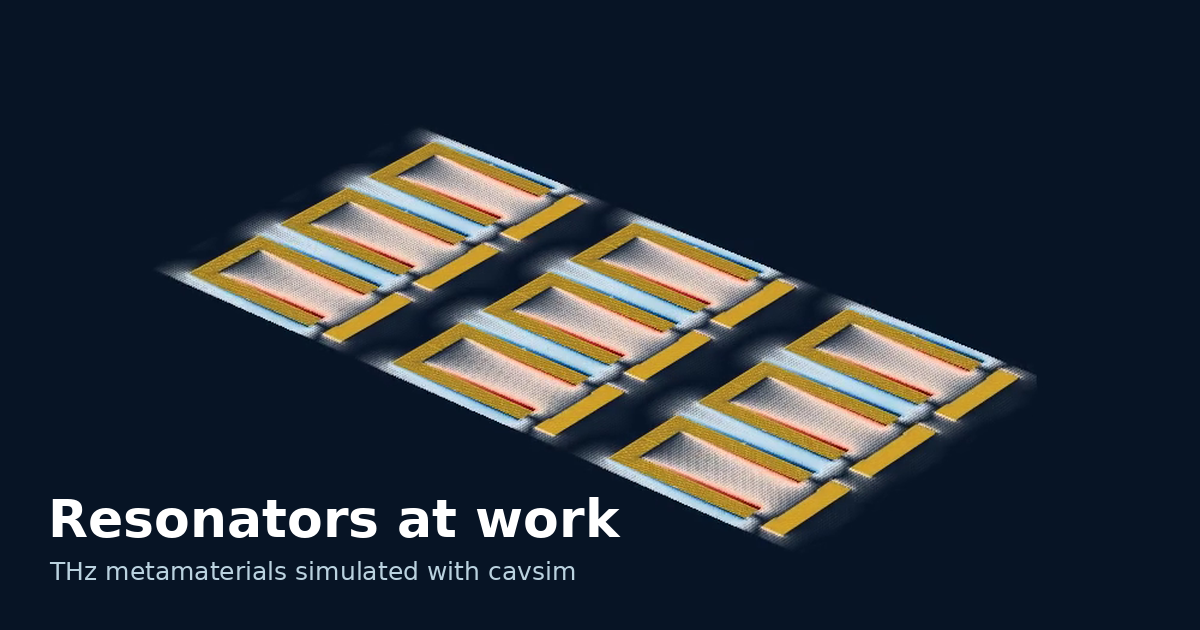
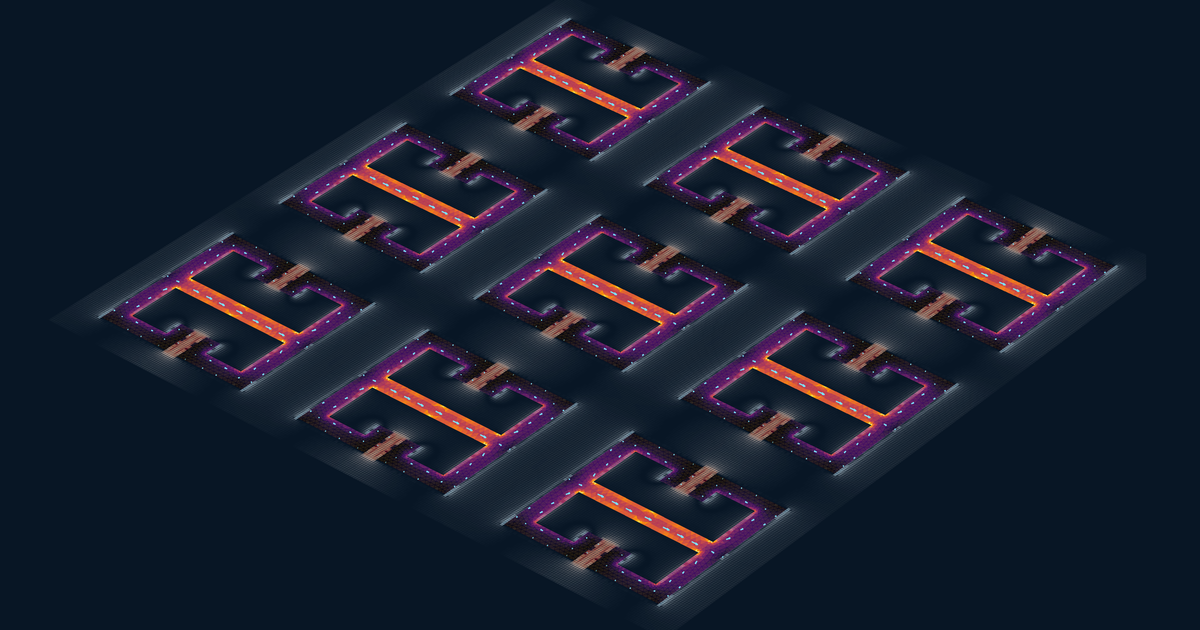
Use the text-free SRR array still as the link-preview image
Claude-Session: https://claude.ai/code/session_01AW5zNXaVauRsMQ6Jd48Vr4

diff --git a/index.html b/index.html
@@ -12,7 +12,7 @@
 <meta property="og:image" content="https://po-changchen.github.io/cavsim-gallery/og-preview.png">
 <meta property="og:image:width" content="1200">
 <meta property="og:image:height" content="630">
-<meta property="og:image:alt" content="A 3×3 array of two-C gold THz resonators with the computed electric field shown in red and blue">
+<meta property="og:image:alt" content="A 3×3 array of THz split-ring resonators glowing with their computed surface current">
 <meta name="twitter:card" content="summary_large_image">
 <meta name="twitter:image" content="https://po-changchen.github.io/cavsim-gallery/og-preview.png">
 <link rel="preconnect" href="https://fonts.googleapis.com">
@@ -70,7 +70,7 @@ a:focus-visible,video:focus-visible{outline:2px solid var(--gold);outline-offset
 
   <figure class="flag">
     <span class="tag">Flagship</span>
-    <video controls playsinline loop muted preload="metadata" poster="og-preview.png" src="videos/t4v2_yang_breathing.mp4" aria-label="Two-C gold resonator breathing with the light"></video>
+    <video controls playsinline loop muted preload="metadata" src="videos/t4v2_yang_breathing.mp4" aria-label="Two-C gold resonator breathing with the light"></video>
     <figcaption>
       <h2>The resonator breathes with the light</h2>
       <p>A two-C gold quasi-BIC resonator [1] at its computed resonance near 0.99 THz. Red and blue are the electric field just above the gold, swapping sign every half cycle. Then nine copies show the whole array oscillating in step.</p>
